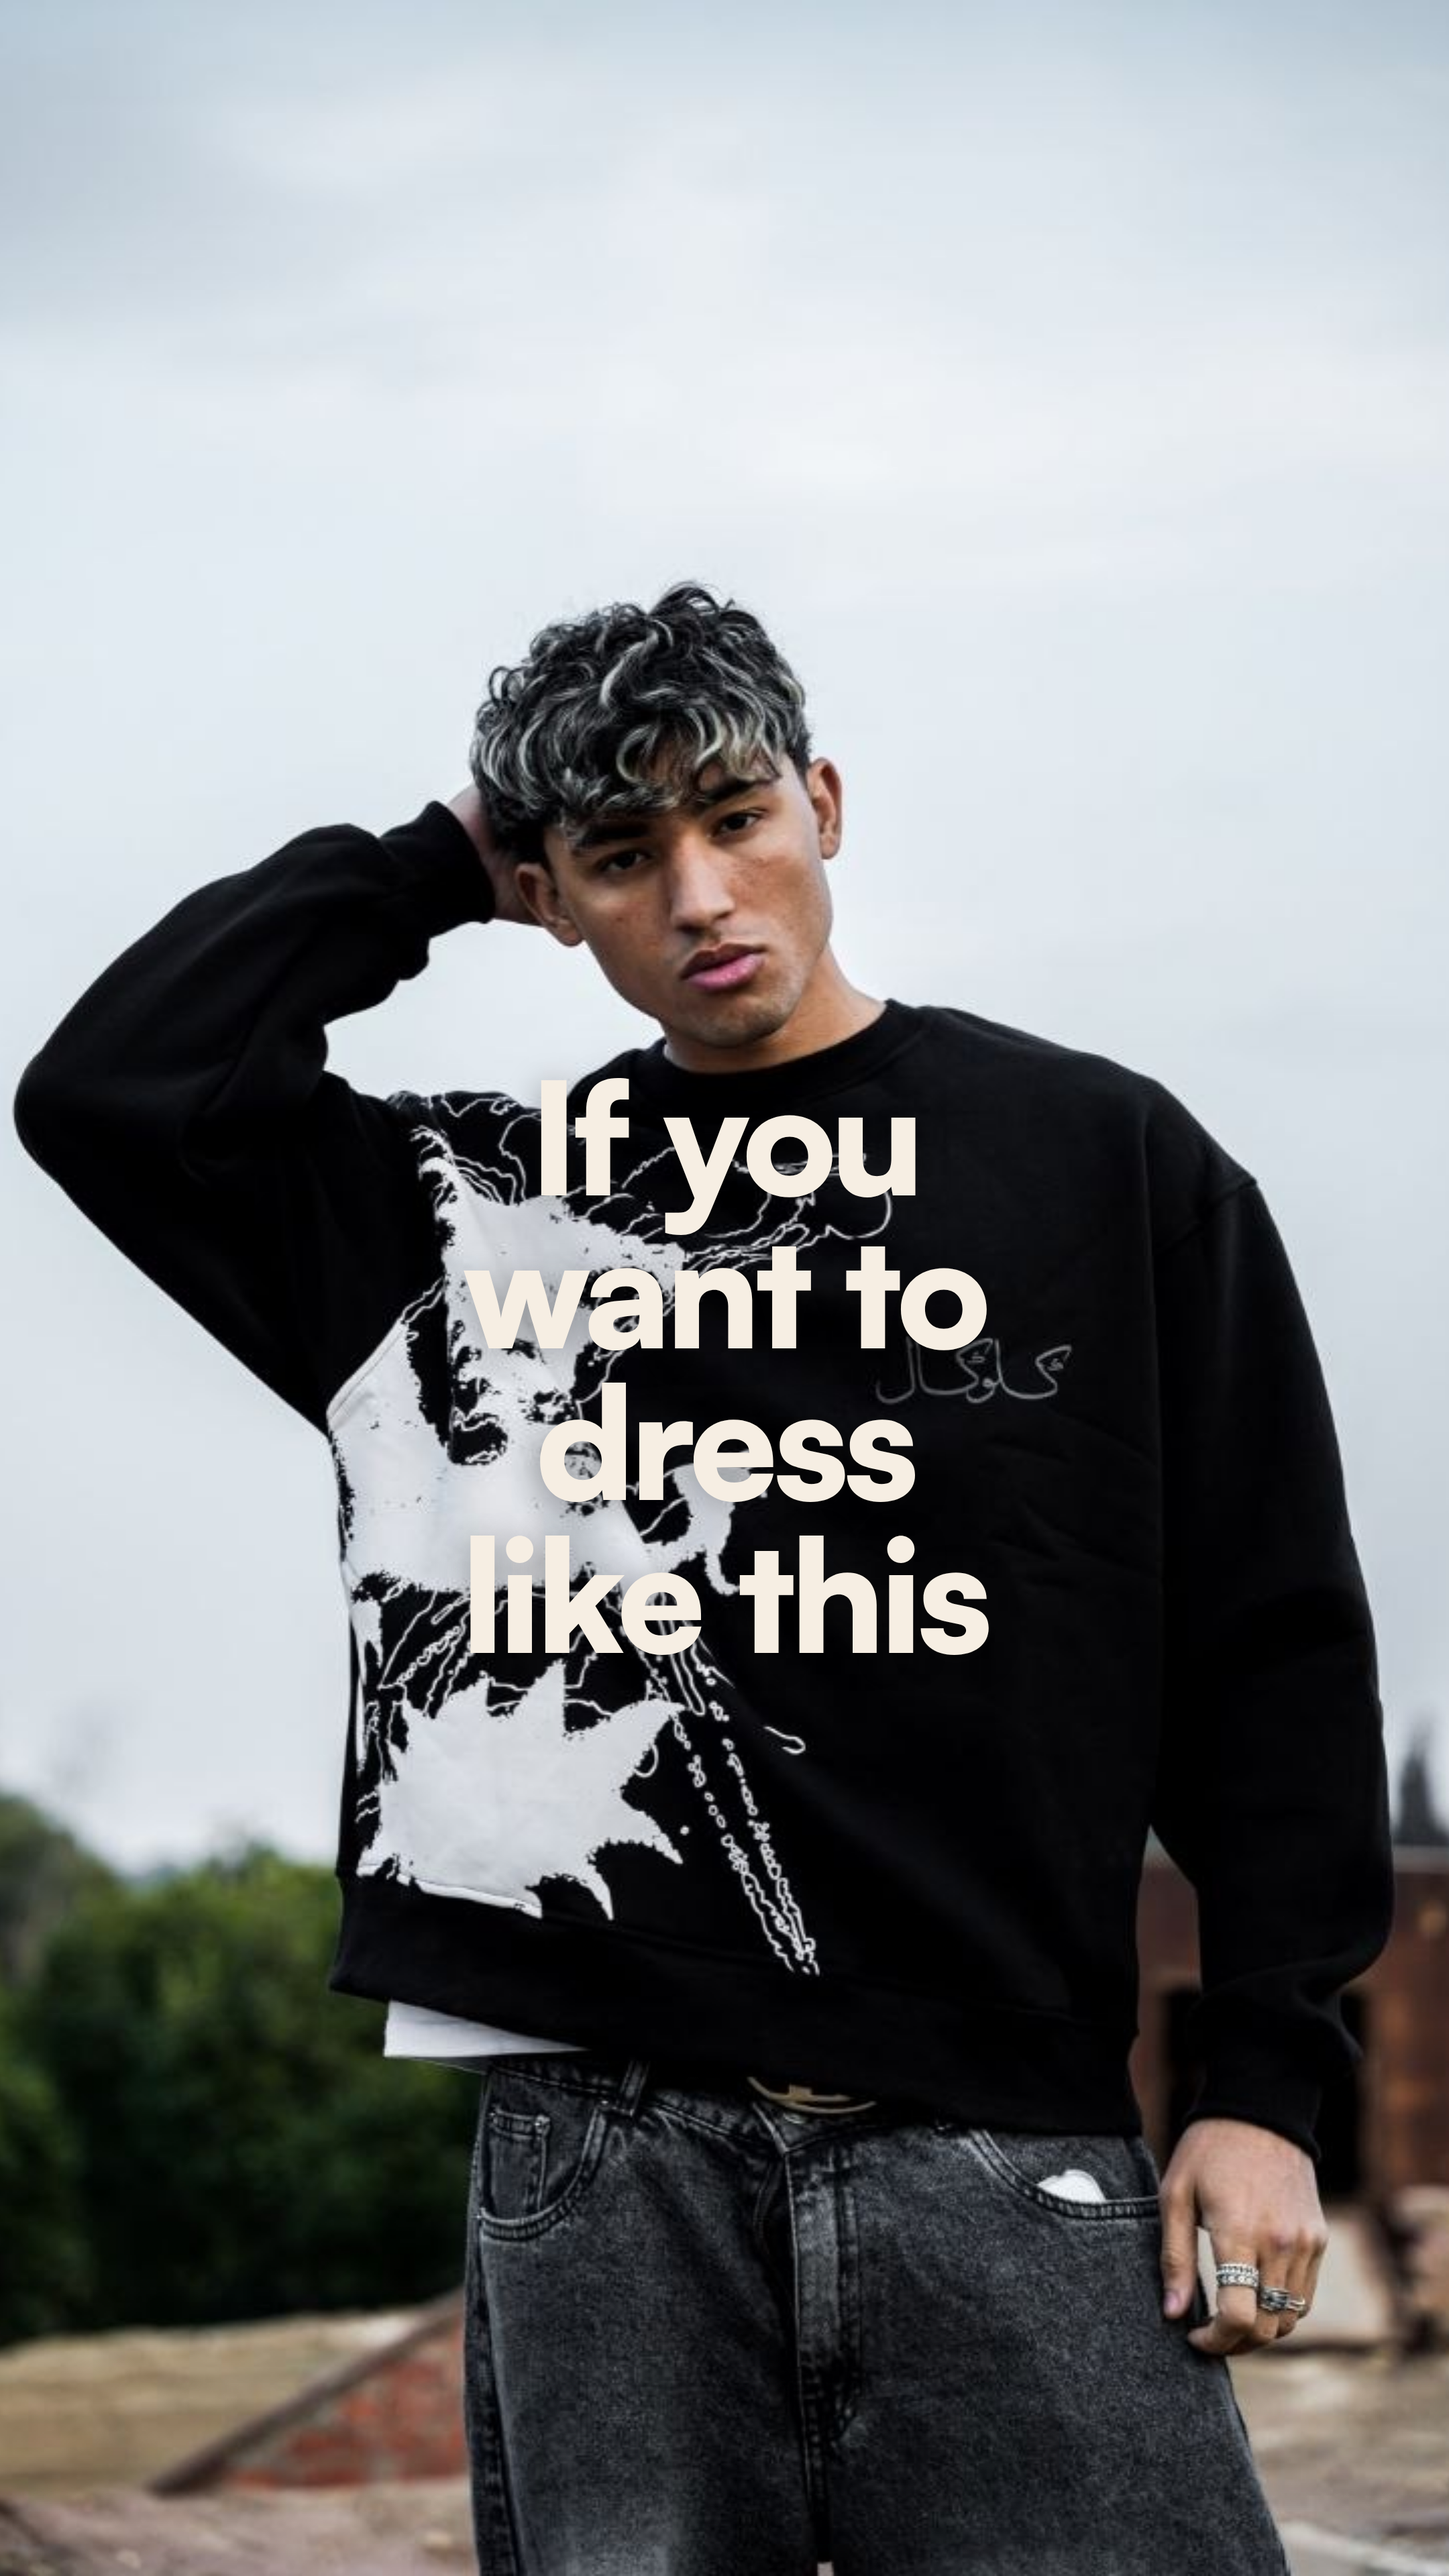
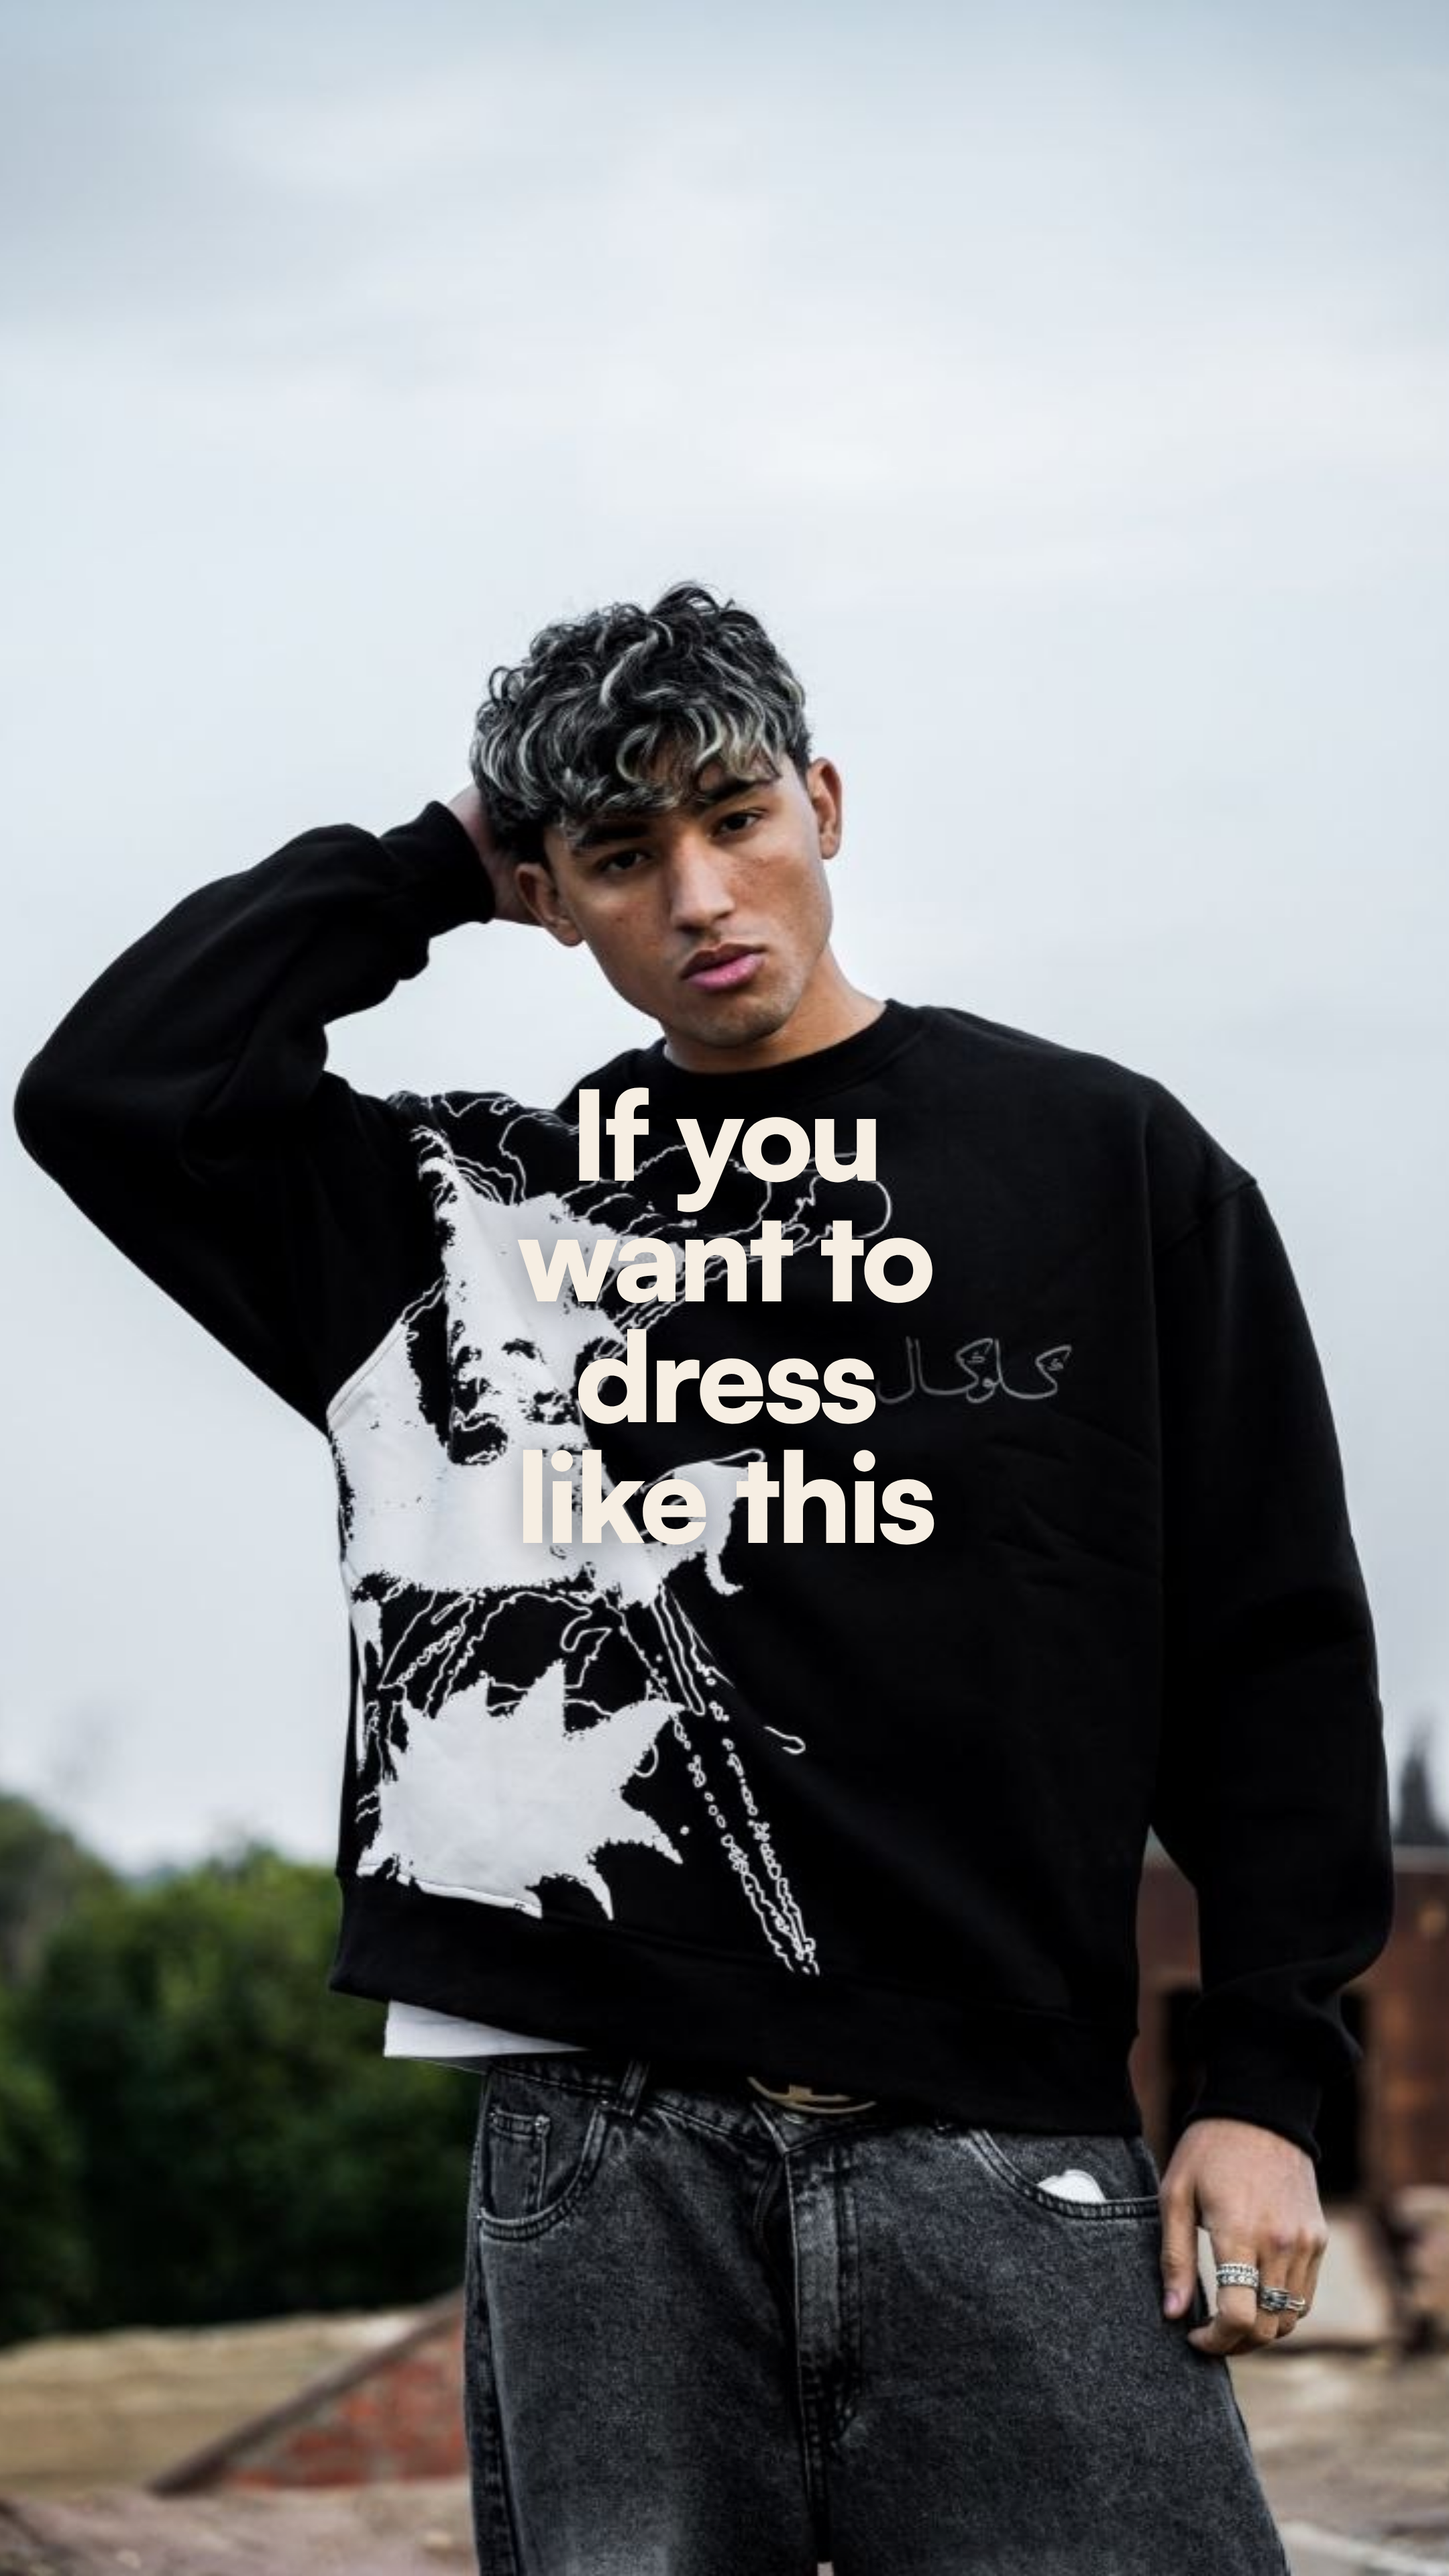
Reduce TikTok caption size
Claude-Session: https://claude.ai/code/session_0134z9woteaCD6XRmPMXin1q

Changed region(s): [[0.3102, 0.4062, 0.6824, 0.6562]]

diff --git a/clocal-black-dragon-ads/src/tiktok-dress-like-this_9x16.html b/clocal-black-dragon-ads/src/tiktok-dress-like-this_9x16.html
@@ -3,8 +3,8 @@
 <style>
   /* TikTok-reference layout (face cropped out, outfit fills the frame, centred 4-line caption) in CLOCAL type & colour */
   .ph { left: 0; top: 0; width: 1080px; height: 1920px; }
-  .cap { position: absolute; left: 0; right: 0; top: 790px; text-align: center; font-family: "Satoshi"; font-weight: 900;
-         font-size: 116px; line-height: 0.98; letter-spacing: -0.03em; color: var(--cream);
+  .cap { position: absolute; left: 0; right: 0; top: 800px; text-align: center; font-family: "Satoshi"; font-weight: 900;
+         font-size: 92px; line-height: 0.98; letter-spacing: -0.03em; color: var(--cream);
          text-shadow: 0 4px 24px rgba(10,10,10,.35); }
 </style></head>
 <body>
